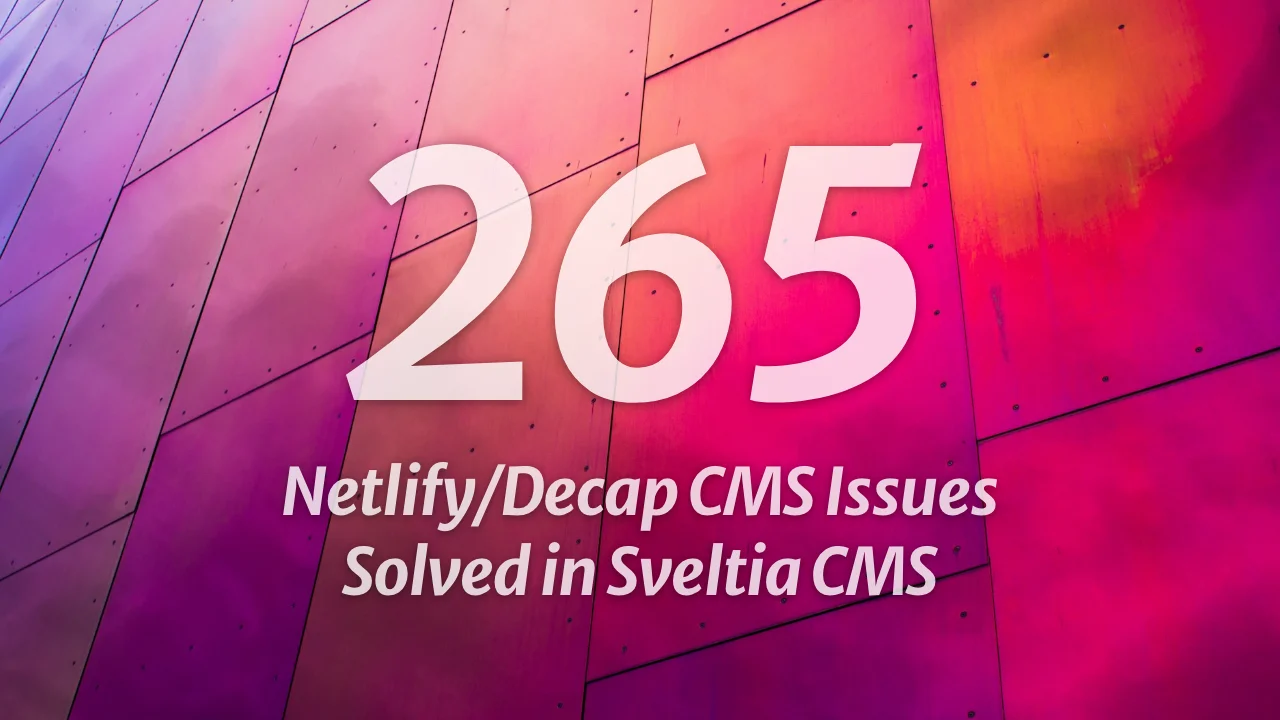
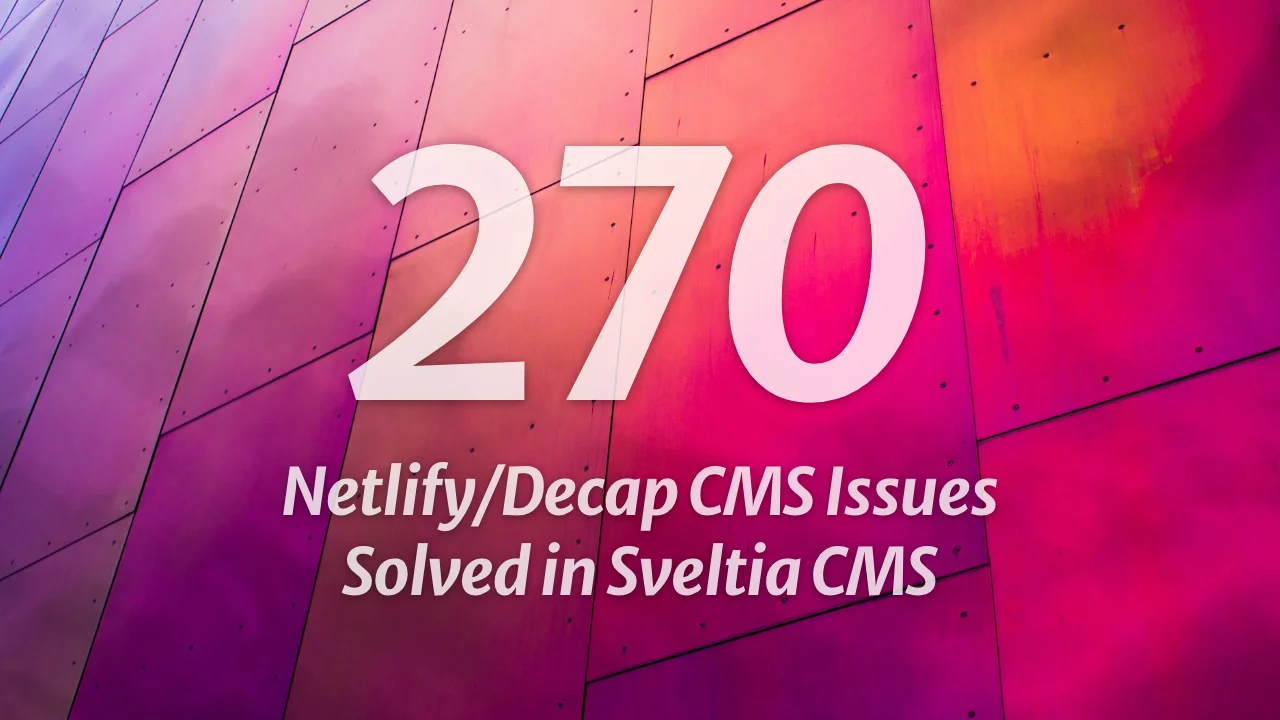
[skip ci] Update README.md

Changed region(s): [[0.4062, 0.1833, 0.75, 0.5806], [0.6562, 0.4583, 0.7188, 0.4889], [0.6562, 0.5194, 0.6875, 0.55]]

diff --git a/README.md b/README.md
@@ -1,6 +1,6 @@
 # Sveltia CMS: Netlify/Decap CMS successor
 
-Sveltia CMS is a Git-based lightweight headless CMS under active development as a modern, powerful, direct replacement for Netlify CMS (now Decap CMS). We have picked up where they left off and have already solved over 265 issues reported in the predecessor’s repository, ranging from critical bugs to top feature requests.
+Sveltia CMS is a Git-based lightweight headless CMS under active development as a modern, powerful, direct replacement for Netlify CMS (now Decap CMS). We have picked up where they left off and have already solved over 270 issues reported in the predecessor’s repository, ranging from critical bugs to top feature requests.
 
 Built from the ground up, Sveltia CMS offers excellent UX, DX, performance, security and internationalization (i18n) support. Although some features are still missing, our numerous enhancements across the board ensure smooth daily workflows.
 
@@ -127,7 +127,7 @@ Due to its unfortunate abandonment in early 2022, Netlify CMS spawned 3 successo
 - **Sveltia CMS**: not a fork but a **complete rewrite**
   - Started in November 2022, first appeared on GitHub in March 2023
   - ✅ Actively developed with frequent releases and numerous improvements
-  - ✅ Solved more than 265 issues reported in the Netlify/Decap CMS repository
+  - ✅ Solved more than 270 issues reported in the Netlify/Decap CMS repository
 - [Decap CMS](https://github.com/decaporg/decap-cms): a rebranded version
   - [Announced in February 2023](https://www.netlify.com/blog/netlify-cms-to-become-decap-cms/) as an official continuation with a Netlify agency partner taking ownership
   - ⚠ Mostly low activity with only occasional releases and a few minor improvements
@@ -165,7 +165,7 @@ While we fix reported bugs as quickly as possible, usually within 24 hours, our 
   - Some missing features will be implemented before or shortly after GA
 - Providing partial [compatibility with Static CMS](#compatibility-with-static-cms)
 - Tackling as many [Netlify/Decap CMS issues](https://github.com/decaporg/decap-cms/issues) as possible
-  - So far, **265+ issues, or 580+ if including duplicates, have been effectively solved** in Sveltia CMS (Yes, you read it right)
+  - So far, **270+ issues, or 580+ if including duplicates, have been effectively solved** in Sveltia CMS (Yes, you read it right)
   - Target:
     - 250 issues, or 500 if including duplicates, by GA — We did it! 🎉
     - 400 issues, or 900 if including duplicates, in the future 💪
@@ -179,7 +179,7 @@ While we fix reported bugs as quickly as possible, usually within 24 hours, our 
 - Responding to requests from the maintainer’s clients
 - Making the code clean and maintainable
 
-![265 Netlify/Decap CMS issues solved in Sveltia CMS](https://raw.githubusercontent.com/sveltia/sveltia-cms/main/docs/headline-1.webp?20251025)<br>
+![270 Netlify/Decap CMS issues solved in Sveltia CMS](https://raw.githubusercontent.com/sveltia/sveltia-cms/main/docs/headline-1.webp?20251120)<br>
 
 ## Differentiators
 
@@ -324,6 +324,7 @@ The [GitHub](https://decapcms.org/docs/github-backend/), [GitLab](https://decapc
   - Users won’t get a 404 Not Found error when you sign in to the GitLab backend.[^115]
   - We have implemented a workaround for a [GraphQL complexity limit issue](https://github.com/sveltia/sveltia-cms/issues/525) in GitLab 18.4.2, while Netlify/Decap CMS continues to suffer from the same problem.[^301]
 - Our Gitea/Forgejo backend is high-performing because it retrieves multiple entries at once. It also supports Git LFS ([documentation](https://docs.gitea.com/administration/git-lfs-setup)). Additionally, the backend won’t cause 400 Bad Request errors due to the presence of `DRAFT_MEDIA_FILES` in file paths.[^222]
+- Unlike Netlify/Decap CMS, Sveltia CMS does not have a hardcoded API request timeout of 60 seconds, which can lead to unexpected errors when working with large files or slow networks.[^304] Though users may still experience timeouts due to server-side limitations, at least the client-side won’t impose an arbitrary limit.
 - Features the all-new [local repository workflow](#working-with-a-local-git-repository) for a better DX. See the [productivity section](#better-productivity) above.
 - An indicator is displayed in the account menu when using the local repository workflow.[^302]
 - Developers can select the local and remote backends while working on a local server.
@@ -2715,3 +2716,5 @@ This project would not have been possible without the open source Netlify CMS pr
 [^302]: Netlify/Decap CMS [#3286](https://github.com/decaporg/decap-cms/issues/3286)
 
 [^303]: Netlify/Decap CMS [#3803](https://github.com/decaporg/decap-cms/issues/3803)
+
+[^304]: Netlify/Decap CMS [#4538](https://github.com/decaporg/decap-cms/issues/4538), [#6371](https://github.com/decaporg/decap-cms/issues/6371)
